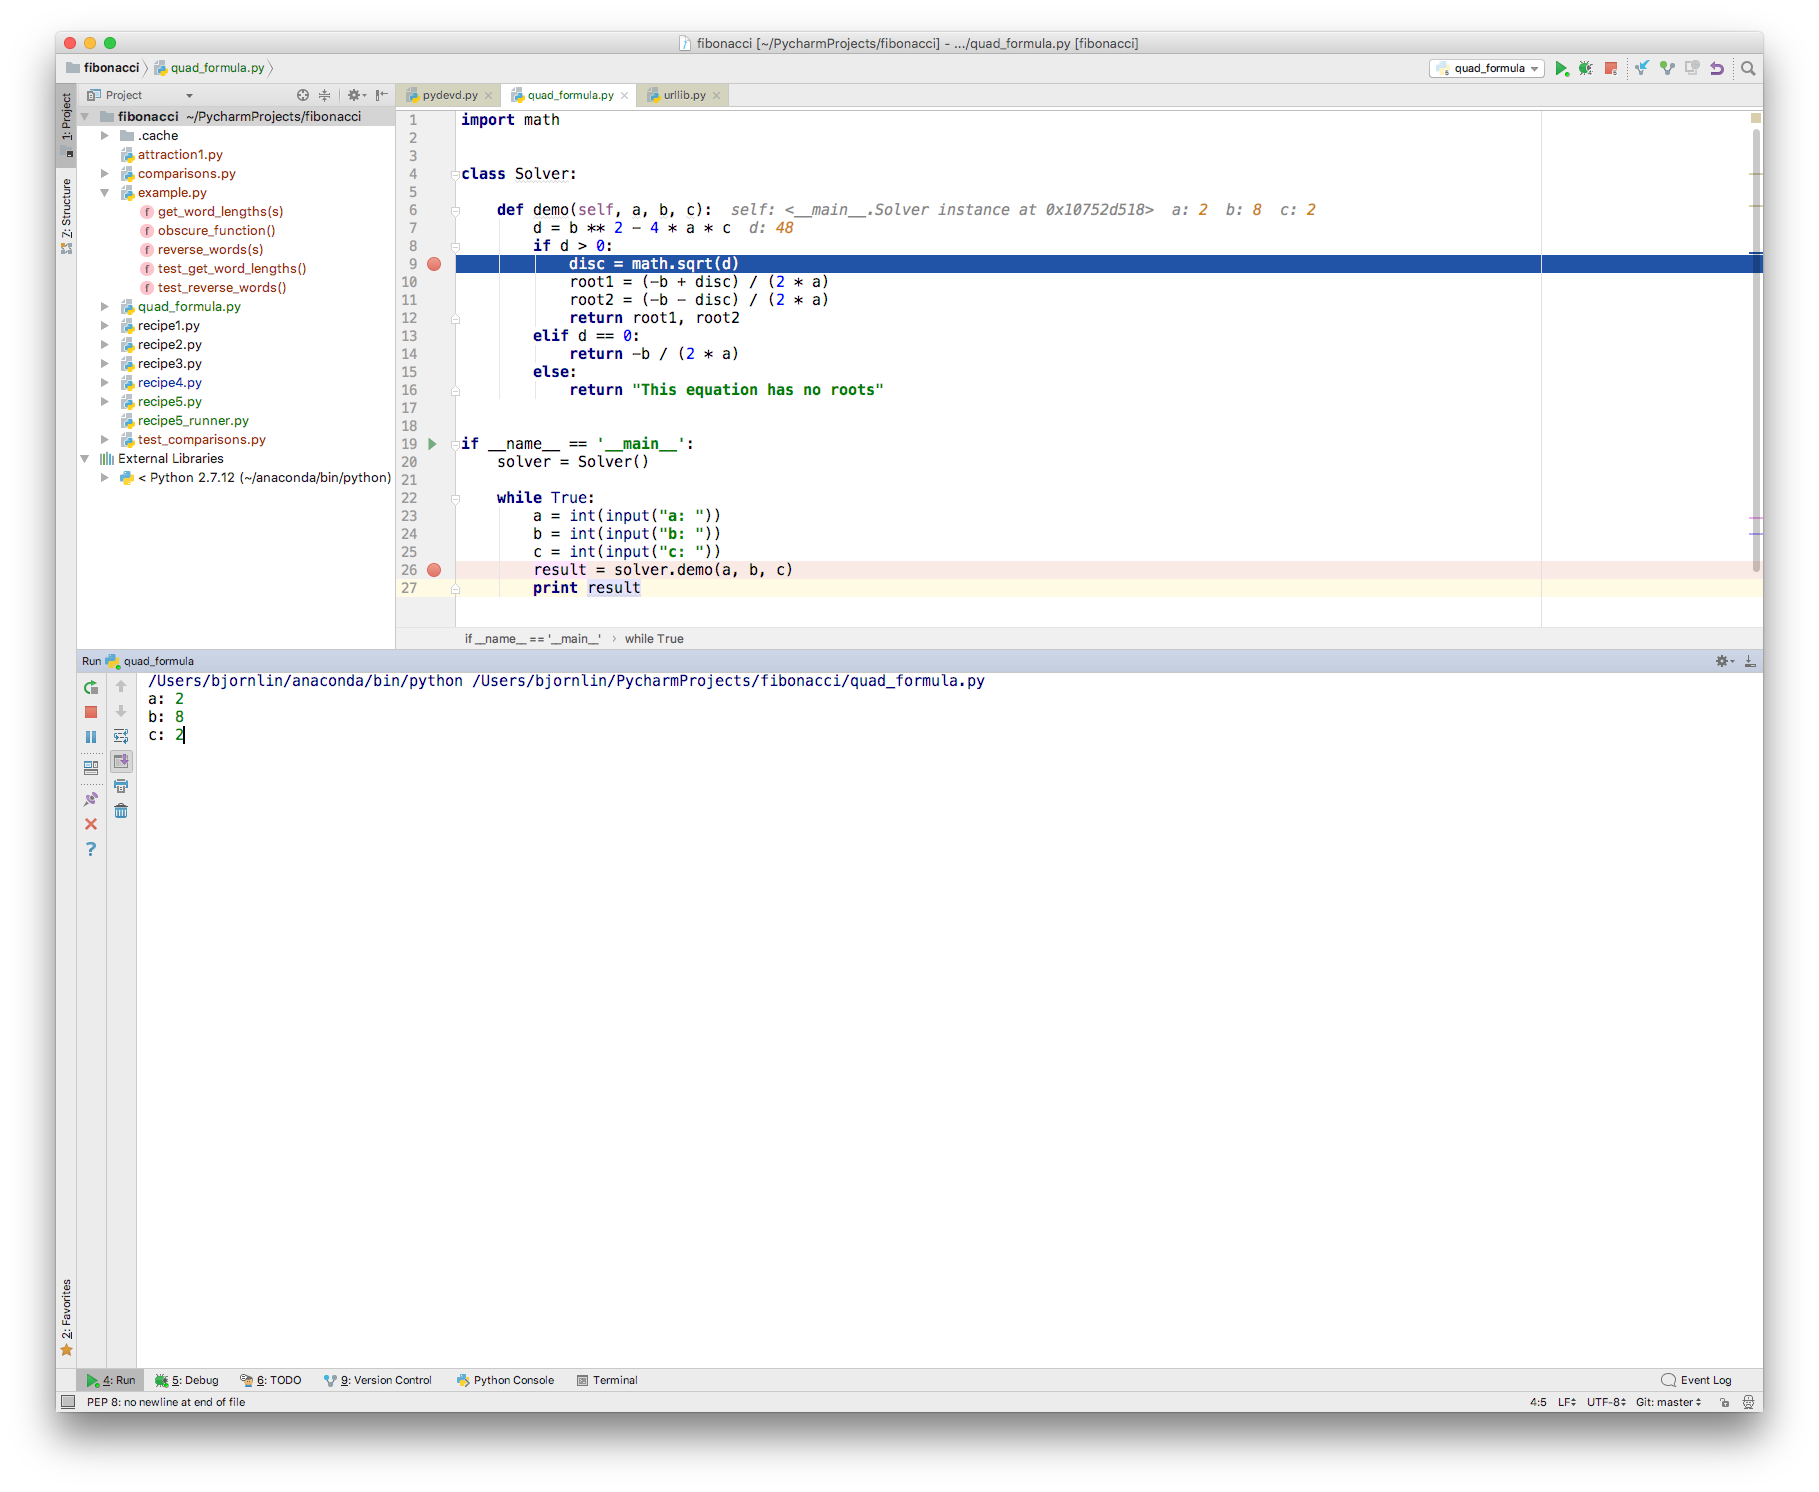
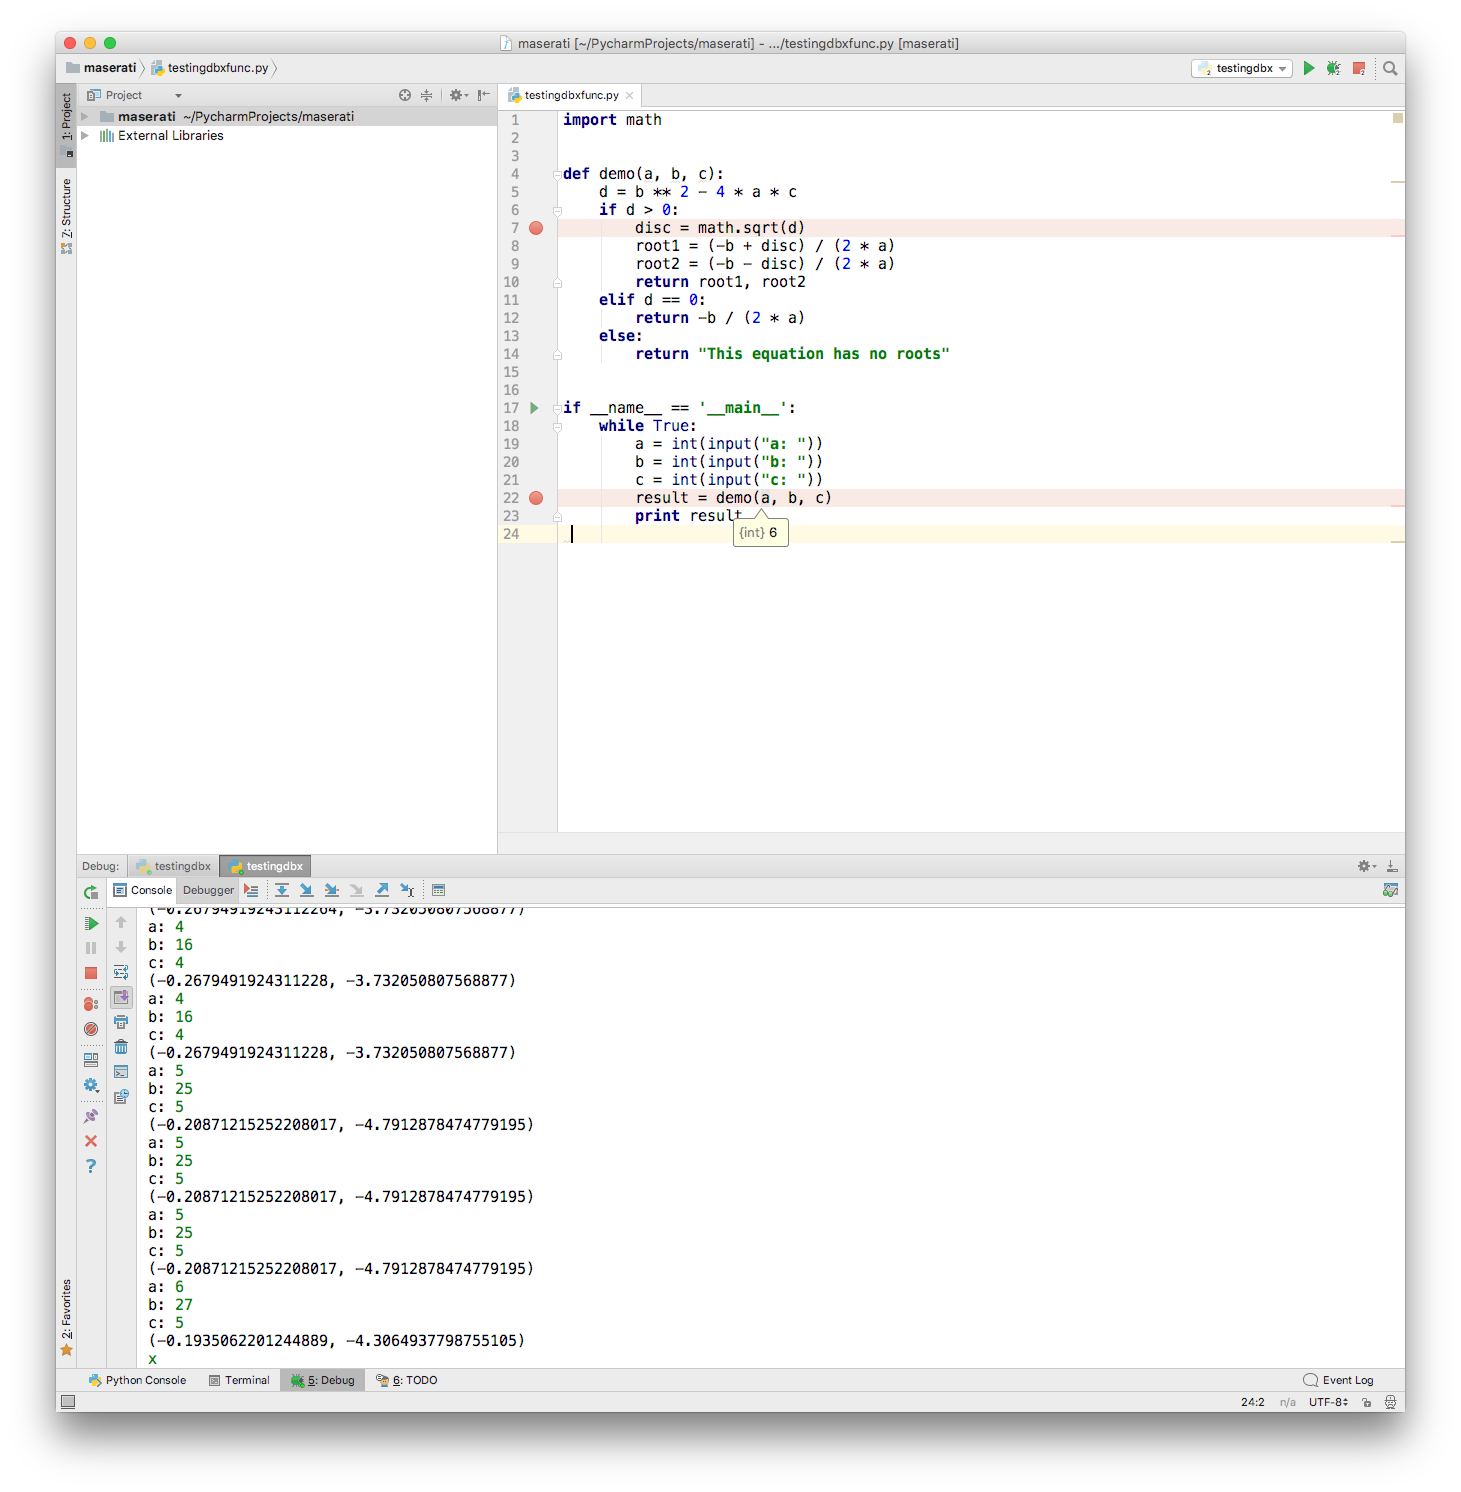
IDEs: Removed Solver class, uses only a function in the debugging example

diff --git a/_episodes/02-IDE-coding-debugging.md b/_episodes/02-IDE-coding-debugging.md
@@ -48,7 +48,7 @@ import re
 
 p=re.compile('[A-Za-z0-9._%+-].+@[A-Za-z0-9.-]+\.[A-Za-z]{3,4}')
 ```
-By clicking on the light buble, you can select checking of the regular expression.
+By clicking on the light bubble, you can select checking of the regular expression.
 ![](../img/PyC_regexp.png)
 
 
@@ -62,35 +62,31 @@ When we execute this program, we are asked to specify a, b and c.
 import math
 
 
-class Solver:
-
-    def demo(self, a, b, c):
-        d = b ** 2 - 4 * a * c
-        if d > 0:
-            disc = math.sqrt(d)
-            root1 = (-b + disc) / (2 * a)
-            root2 = (-b - disc) / (2 * a)
-            return root1, root2
-        elif d == 0:
-            return -b / (2 * a)
-        else:
-            return "This equation has no roots"
+def demo(a, b, c):
+    d = b ** 2 - 4 * a * c
+    if d > 0:
+        disc = math.sqrt(d)
+        root1 = (-b + disc) / (2 * a)
+        root2 = (-b - disc) / (2 * a)
+        return root1, root2
+    elif d == 0:
+        return -b / (2 * a)
+    else:
+        return "This equation has no roots"
 
 
 if __name__ == '__main__':
-    solver = Solver()
-
     while True:
         a = int(input("a: "))
         b = int(input("b: "))
         c = int(input("c: "))
-        result = solver.demo(a, b, c)
+        result = demo(a, b, c)
         print result
 ```
 
-Paste code in a new file named quadratic_formula.py. Set breakpoints in the program by pushing,
-the left mouse button at line number 9 and 26. Execution is stop at these points when the code
-is executed in the debugger.
+Paste code in a new file named quadratic_formula.py. Set breakpoints in the program by pointing
+the mouse between line 7 and push the mouse button. Do this once more at line 22.
+Execution is stop at these points when the code is executed in the debugger.
 
 First run the program normally, to experience its behavior. The program asks for input.
 ![](../img/PyC_dbx_qfinput.png)
